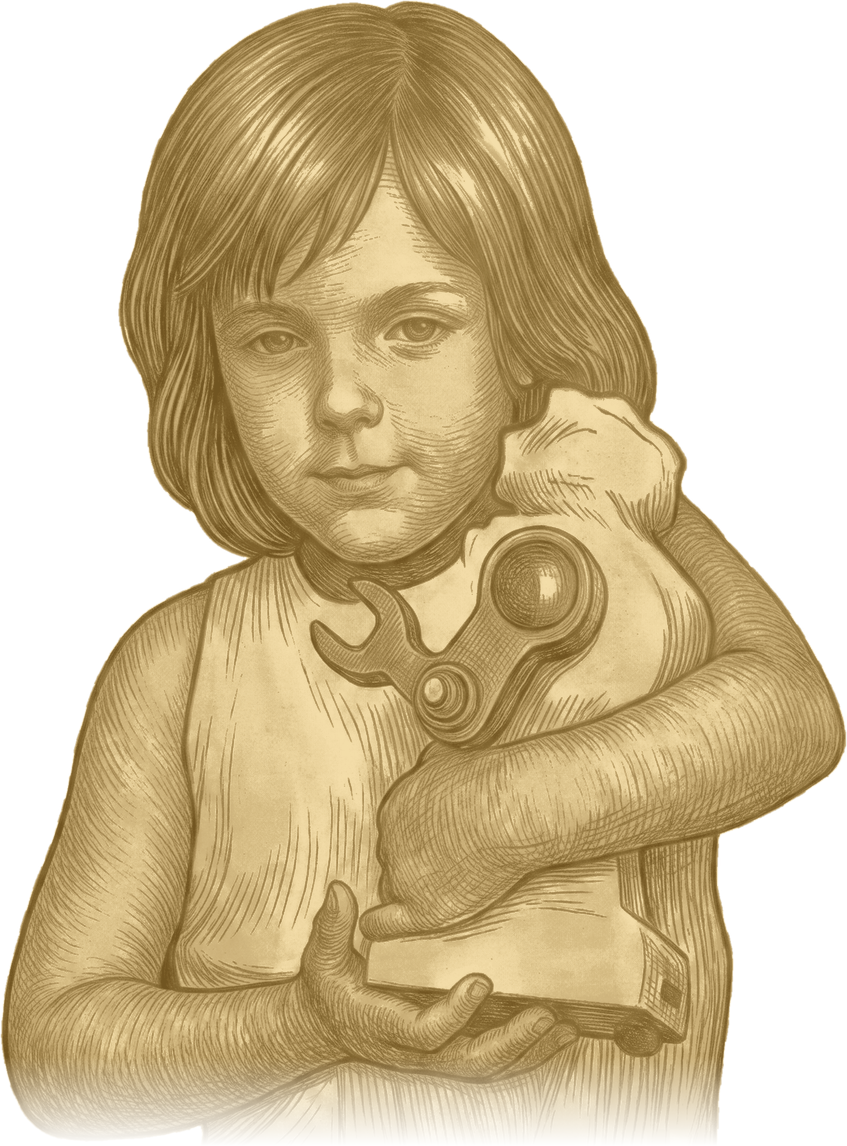
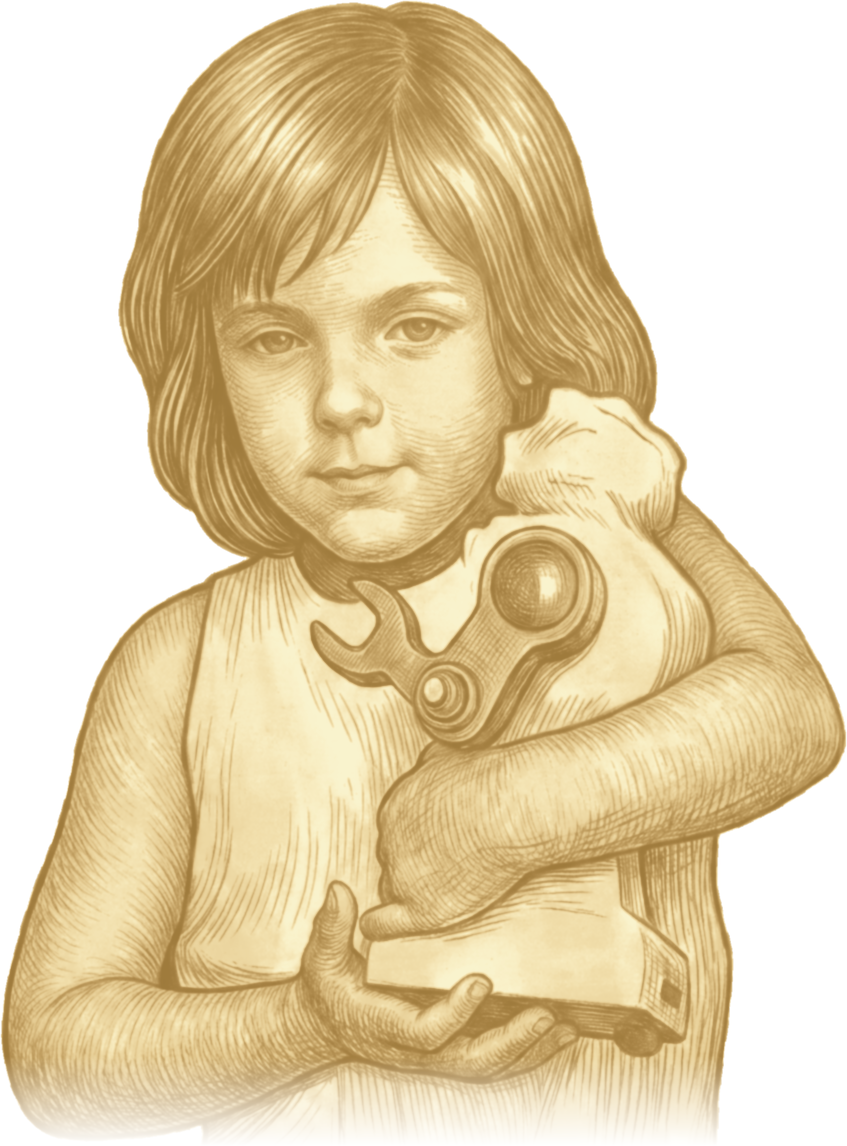
I love robots: golden, softer etching
Claude-Session: https://claude.ai/code/session_016R5T8HULVGKfAE3PW3pdJb

diff --git a/site/journal/i-love-robots/index.html b/site/journal/i-love-robots/index.html
@@ -66,7 +66,7 @@
             <p class="life-description">As a web designer and developer, I’ve always aimed for user-friendly interfaces, with an emphasis on information architecture and standards-compliant code, so the web community could spend more time designing and building, and less time debugging.</p>
         </div>
         <div class="life-header-right">
-            <img src="/img/journal/childhood/little-maker.png?v=2" alt="Engraving-style drawing in warm sepia of me as a little girl with a fringe and shoulder-length hair, hugging a soft toy, a big wrench and a toy truck" class="special-image">
+            <img src="/img/journal/childhood/little-maker.png?v=3" alt="Engraving-style drawing in warm sepia of me as a little girl with a fringe and shoulder-length hair, hugging a soft toy, a big wrench and a toy truck" class="special-image">
         </div>
     </div>
 </section>

diff --git a/site/journal/index.html b/site/journal/index.html
@@ -77,7 +77,7 @@
             <span class="category">LIFE</span> | <span class="date">NOVEMBER 22, 2026</span>
         </div>
         <a href="/journal/i-love-robots/">
-            <img src="/img/journal/childhood/little-maker.png?v=2" alt="Engraving of a little girl hugging a wrench and a toy truck">
+            <img src="/img/journal/childhood/little-maker.png?v=3" alt="Engraving of a little girl hugging a wrench and a toy truck">
             <h2>I love robots</h2>
             <p>My love for robots goes way back in time.</p>
             <span class="author">Mariona N. Jones</span>

diff --git a/site/index.html b/site/index.html
@@ -174,7 +174,7 @@
         <div class="journal-entry">
             <a href="/journal/i-love-robots/">
                 <div class="image-container">
-                    <img src="/img/journal/childhood/little-maker.png?v=2" alt="Engraving of a little girl hugging a wrench and a toy truck">
+                    <img src="/img/journal/childhood/little-maker.png?v=3" alt="Engraving of a little girl hugging a wrench and a toy truck">
                     <span class="tag-overlay">LIFE</span>
                 </div>
                 <h3>I love robots</h3>
